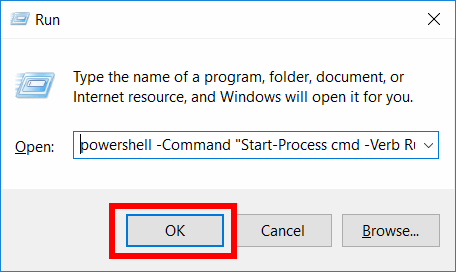
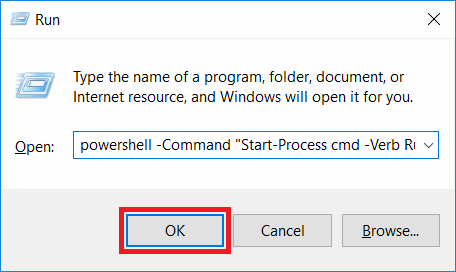
Edited Exercises 1 and 2 in CNTK lab

Changed region(s): [[0.2149, 0.7353, 0.5219, 0.9706]]

diff --git a/Workshop/16. Cognitive Toolkit/Microsoft Cognitive Toolkit HOL.md b/Workshop/16. Cognitive Toolkit/Microsoft Cognitive Toolkit HOL.md
@@ -6,21 +6,21 @@
 <a name="Overview"></a>
 ## Overview ##
 
-The [Microsoft Cognitive Toolkit](https://www.microsoft.com/en-us/research/product/cognitive-toolkit/), formerly known as the Cognitive Network Toolkit (CNTK), is a powerful set of free and open-source tools for developing deep-learning applications. It was initially developed by computer scientists at Microsoft to aid in their own research, and was later adopted by Bing and other product groups as well as by Microsoft customers. It can run on a single machine with a single CPU, or scale efficiently across multiple machines with multiple CPUs and NVIDIA GPUs, including Azure's [GPU offering](https://azure.microsoft.com/en-us/blog/azure-n-series-preview-availability/). The Microsoft Cognitive Toolkit supports C++ and Python and includes a number of libraries and utilities for speech, image, language, and video recognition and many examples of how to use them. For more information on its history, its uses, and its capabilities, see https://blogs.microsoft.com/next/2016/10/25/microsoft-releases-beta-microsoft-cognitive-toolkit-deep-learning-advances.
+The [Microsoft Cognitive Toolkit](https://www.microsoft.com/en-us/research/product/cognitive-toolkit/), also known as the Computational Network Toolkit (CNTK), is a powerful set of free and open-source tools for developing deep-learning applications. It was initially developed by computer scientists at Microsoft to aid in their own research, and was later adopted by Bing and other product groups as well as by Microsoft customers. It can run on a single machine with a single CPU, or scale efficiently across multiple machines with multiple CPUs and NVIDIA GPUs, including Azure's [GPU offering](https://azure.microsoft.com/en-us/blog/azure-n-series-preview-availability/). The Microsoft Cognitive Toolkit supports C++ and Python and includes a number of libraries and utilities for speech, image, language, and video recognition and many examples of how to use them. For more information on its history, its uses, and its capabilities, see https://blogs.microsoft.com/next/2016/10/25/microsoft-releases-beta-microsoft-cognitive-toolkit-deep-learning-advances.
 
-The toolkit centers around machine learning with [neural networks](https://en.wikipedia.org/wiki/Artificial_neural_network). Machine learning enables computers to discern patterns in data that are difficult to identify algorithmically. Imagine trying to write an algorithm to identify images containing cats. The algorithm might scan the image looking for features characteristic of cats such as pointed ears, whiskers, and slit pupils, but identifying those features by examining individual pixels would be difficult. By contrast, a machine-learning model trained with thousands of cat images could "learn" to identify cats from patterns in the data without explicitly understanding what those patterns represent. Machine learning touches lives every day and is widely used in industry to flag fraudulent credit-card transactions, generate online shopping recommendations, perform optical character recognition, and more.
+The toolkit centers around machine learning with [neural networks](https://en.wikipedia.org/wiki/Artificial_neural_network). Machine learning enables computers to discern patterns in data that are difficult to identify algorithmically. Imagine trying to write an algorithm to identify images containing cats. The algorithm might scan the image looking for features characteristic of cats such as pointed ears, whiskers, and slit pupils, but identifying those features by examining individual pixels would be difficult. By contrast, a machine-learning model trained with thousands of cat images could "learn" to identify cats from patterns in the data without explicitly understanding what those patterns represent. Machine learning touches lives every day and is widely used in industry to flag fraudulent credit-card transactions, generate online shopping recommendations, and more.
 
 ![Features of Cats](Images/cats.jpg)
 
 _Features of cats (image: Wikimedia Commons)_
 
-When used for image processing, neural networks begin by decomposing an input image into regions as illustrated in the images above. These regions constitute a series of *input nodes* in a neural network. These nodes are connected to many *hidden nodes* via probabilistic edges. Each input region is assigned a value, which is mathematically generated from the probability of an edge combined with input from other nodes. Signals from these nodes feed into other nodes and traverse the network until they reach an *output node*. If the destination output node meets a specified probability threshold, then the image is identified as one matching the input criteria. 
+When used for image processing, neural networks begin by decomposing an input image into regions as illustrated above. These regions constitute a series of *input nodes* in a neural network. These nodes are connected to many *hidden nodes* via probabilistic edges. Each input region is assigned a value, which is mathematically generated from the probability of an edge combined with input from other nodes. Signals from these nodes feed into other nodes and traverse the network until they reach an *output node*. If the destination output node meets a specified probability threshold, then the image is identified as one matching the input criteria. 
 
 ![Neural Network](Images/neural-network.png)
 
 _Neural network (image: Wikimedia Commons)_
 
-Neural networks are trained with one set of inputs and then tested with another set of inputs. Handwriting recognition is one of the common applications for neural networks. Handwriting is usually unique to an individual, but there are common characteristics of written characters that can be detected in images.
+Neural networks are trained with one set of inputs and then tested with another set of inputs. Handwriting recognition is one of the common applications, especially neural networks mimc the behavior of the human brain. Handwriting is usually unique to an individual, but there are common characteristics of written characters that can be detected in images.
 
 The [MNIST datasbase](https://en.wikipedia.org/wiki/MNIST_database) is a popular dataset for training and evaluating handwriting-recognition models. The database contains 60,000 images of the digits 0 through 9 drawn by high school students. It also includes a set of 10,000 test images. A number of scholarly papers have been published using this dataset, each seeking to optimize neural networks to produce more positives and fewer errors when identifying characters. Models built around the MNIST database frequently divide each image into regions and feed them into a neural network for processing. For a more in-depth explanation of machine learning, particularly as it relates to MNIST, check out http://neuralnetworksanddeeplearning.com/chap1.html.
 
@@ -31,9 +31,9 @@ In this lab, you will use the MNIST database to train and test a variety of diff
 
 In this hands-on lab, you will learn how to:
 
-* Install the Microsoft Cognitive Toolkit
-* Download and use the MNIST Dataset to train and test neural networks
-* Edit the configuration files to use different inputs for testing.
+- Install the Microsoft Cognitive Toolkit
+- Use the MNIST dataset to train and test neural networks
+- Edit the configuration files to use different inputs for testing
 
 <a name="Prerequisites"></a>
 ### Prerequisites ###
@@ -61,156 +61,112 @@ Estimated time to complete this lab: **45** minutes.
 <a id="Exercise1"/></a>
 ## Exercise 1: Install the Cognitive Toolkit (Windows)
 
-Installing the toolkit it pretty straight forward if you use the pre-compiled binaries. It is possible to compile it from the source, but this is only necessary if you want to extend the code rather than simply use it. CNTK also comes with install scripts for Windows and Linux. This exercise will use the Windows scripts to setup CNTK on a Windows machine.
+Installing the Microsoft Cognitive Toolkit is reasonably straightforward if you use the precompiled binaries available on GitHub. The toolkit comes with install scripts for Windows and Linux. In this exercise, you will use the Windows scripts to install the toolkit on a Windows machine. If you are running Linux, skip this exercise and go to [Exercise 2](#Exercise).
 
+1. Visit the [CNTK release site on GitHub](https://github.com/Microsoft/CNTK/releases) and download the latest CPU-only version of the toolkit from the "Windows" section of the page. If you are prompted to accept any license agreements, answer yes.
 
-1. Visit the [CNTK release site on GitHub](https://github.com/Microsoft/CNTK/releases) to download the latest binary distribution of CNTK. Select the **CNTK for Windows v.2.x CPU only** distribution.
+	![Downloading CNTK for Windows](Images/windows-download.png)
 
-	![Windows Download](Images/windows-download.png)
+	_Downloading CNTK for Windows_
 
-	_Windows Download_
+1. Open the downloaded zip file and copy the folder named "cntk" to your desktop or to the location of you choice.
 
-1. On the next screen, select **I Accept** to agree to the license and start the download.
+1. Press **Windows + R**, and then execute the following command to launch a Command Prompt window in administrator mode.
 
-	![Windows Download](Images/windows-download-1.png)
-
-	_Windows Download_
-
-1. Extract the contents of the zip file. The root of the zip file contains a folder called **cntk**. For ease of use, copy this folder to your **Desktop**.
-
-1. Launch a Command Prompt. Press **Windows + R**, then type in or copy and paste the following command, then, then click **OK**. This command will start the Command Prompt in administrator mode.
-
-	````
+	```
 	powershell -Command "Start-Process cmd -Verb RunAs"
-	````
+	```
 
-	![Run Window](Images/command-prompt.png)
+	![Launching a Command Prompt as administrator](Images/command-prompt.png)
 
-	_Run Window_
+	_Launching a Command Prompt as administrator_
 
-1. Change folder to the **cntk** folder with the **cd** command. This opens the root folder for **cntk**, which contains a other folders with CNTK utilities and Binaries.
+1. In the Command Prompt window, use a **cd** command to change to the "cntk" directory that you copied from the zip file. Then execute the following command:
 
-	````
-	cd %USERPROFILE%\Desktop\cntk
-	````
-
-1. Change to the install folder in **scripts** folder for Windows. This folder contains a  PowerShell scripts that install the CNTK dependencies.
-
-	````
+	```
 	cd Scripts\install\windows
-	````
+	```
 
-1. Install CNTK dependencies with the **install.ps1** script. 
+1. Use the following command to run a PowerShell script to install CNTK dependencies: 
 
-	````
+	```
 	powershell -ExecutionPolicy UnRestricted -File install.ps1 -Execute
-	````
+	```
 
-1. If you see a **Security warning**, select **R** to allow the script to run. You may see this warning for multiple scripts. Select **R** for each script to **Run once**.
+1. Each time you are prompted with a security warning, press **R** followed by **Enter** to answer "Run once."
 
-	![Security Warning](Images/security-warning.png)
+	![Allowing the script to run](Images/security-warning.png)
 
-	_Security Warning_
+	_Allowing the script to run_
 
-1. Once the script starts to execute, the screen will prompt to agree with the install scripts changes. Type in **1** to select the **I agree and want to continue**
+1. When prompted to continue, press **1** followed by **Enter** to answer "I agree and want to continue."
 
-	![CNTK Prerequisites](Images/i-agree.png)
+	![Proceeding with the installation process](Images/i-agree.png)
 
-	_CNTK Prerequisites_
+	_Proceeding with the installation process_
 
+1. Once the script determines what needs to be installed and prompts you for confirmation to continue, press **Y** followed by **Enter** to answer "yes."
 
-1. The script will then determine what needs to be installed. Once the determination is complete, it will list what will be done by the script. Type in **Y** to answer **Do you want to continue?**
+1. The script will download a number of libraries and install them on your computer. This will take a few minutes to complete. Once the script is finished, you will be shown the path to a BAT file that activates the CNTK Python environment. Copy this command to the clipboard.
 
-	![Do you want to continue?](Images/do-you-want-continue.png)
+	![Copying the path to the BAT file](Images/install-finished.png)
 
-	_Do you want to continue?_
+	_Copying the path to the BAT file_
 
-1. The script will download a number of libraries and install them on the computer. This will take a few minutes to complete. Once the script is finishes, the script will notify the user with a message about examples and tutorials along with a path to a script that will activate the **CNTK Python** environment. Copy and paste this path into the Command Prompt window.
+1. Paste the command on the clipboard into the Command Prompt window and execute it.
 
-	![Install finished](Images/install-finished.png)
+The prompt will change to one for the CNTK Python environment. CNTK is now installed and ready to use. Each time you use the toolkit, this command will need to be run to launch the CNTK Python environment. Copy the command to a text file so you can easily retrieve it later.
 
-	_Install finished_
-
-	**Example:**
-
-	````
-	C:\Users\username\Desktop\cntk\scripts\cntkpy35.bat
-	````
-
-1. The prompt will change to indicate that the Command Prompt is in the CNTK Python environment. CNTK is activated and ready to use. Each time you use the toolkit, the command will need to be run first to setup the CNTK Python environment.
-
-	![New Prompt](Images/new-prompt.png)
-
-	_New Prompt_
+Now skip to [Exercise 3](#Exercise3). Exercise 2 is for Linux users only.
 
 <a id="Exercise2"/></a>
 ## Exercise 2: Install the Cognitive Toolkit (Linux)
 
-Like the Windows install, this exercise will use scripts to install CNTK, this time on a Linux machine.
+Installing the Microsoft Cognitive Toolkit is reasonably straightforward if you use the precompiled binaries available on GitHub. The toolkit comes with install scripts for Windows and Linux. In this exercise, you will use the Linux scripts to install the toolkit on a Linux machine.
 
-1. Visit the [CNTK release site on GitHub](https://github.com/Microsoft/CNTK/releases) to download the latest binary distribution of CNTK. Select the **CNTK for Linux v.2.x CPU only** distribution.
+1. Visit the [CNTK release site on GitHub](https://github.com/Microsoft/CNTK/releases) and download the latest CPU-only version of the toolkit from the "Linux" section of the page. If you are prompted to accept any license agreements, answer yes.
 
-	![Windows Download](Images/linux-download.png)
+	![Downloading CNTK for Linux](Images/linux-download.png)
 
-	Linux Download_
+	_Downloading CNTK for Linux_
 
-1. On the next screen, select **I Accept** to agree to the license and start the download.
+1. After the download completes, open a Terminal window. This can usually be found on the Applications menu for your distro, or can often be launched by pressing **Ctrl+Alt+F1**.
 
-	![Windows Download](Images/windows-download-1.png)
+1. In the Terminal window, change to the "Downloads" directory:
 
-	_Linux Download_
-
-1. After the download completes, open a Terminal window. This can usually be found on the Applications menu for your Distro or can usually be accessed with Ctrl + Alt + F1.
-
-1. In the Terminal, change directories to the Downloads directory.
-
-	````
+	```
 	cd ~/Downloads
-	````
+	```
 
-1. Uncompress the **CNTK-2-X-Linux-64bit-CPU-Only.tar.gz** file. For shorthand, most distros allow **tar -xvzf C** then press the **Tab** key to find the file.
+1. Use the following command to uncompress the **CNTK-2-X-Linux-64bit-CPU-Only.tar.gz** file:
 
-	````
+	```
 	 tar -xvzf CNTK-2-x-Linux-64bit-CPU-Only.tar.gz
-	````
+	```
 
-1. Change directories to the Linux install folder.
+1. Use the following command to switch to the Linux install folder:
 
-	````
+	```
 	cd cntk/Scripts/install/linux/
-	````
+	```
 
-1. Launch the install script.
+1. Use the following command to launch the install script. If prompted for a sudo password, type it in and press *Enter**.
 
-	````
+	```
 	 ./install-cntk.sh
-	````
+	```
 
-1. The install script may ask for a **sudo** password. The user install the script needs root privileges in order to install the CNTK prerequisites.
+1. The script will download a number of libraries and install them on your computer. This will take a few minutes to complete. Once the script is finished, you will be shown a command that activates the CNTK Python environment. Copy this command to the clipboard.
 
-	![sudo Password](Images/sudo-password.png)
+1. The script will download a number of libraries and install them on your computer. This will take a few minutes to complete. Once the script is finishes, the script will notify the user with a message about examples and tutorials along with a **source** command that will activate the **CNTK environment**. Copy and paste or type command into the Terminal window.
 
-	_sudo Password_
+	![Copying the command to activate the environment](Images/source-command.png)
 
-1. The script will download a number of libraries and install them on the computer. This will take a few minutes to complete. Once the script is finishes, the script will notify the user with a message about examples and tutorials along with a **source** command that will activate the **CNTK environment**. Copy and paste or type command into the Terminal window.
+	_Copying the command to activate the environment_
 
-	![source Command](Images/source-command.png)
+1. Paste the command on the clipboard into the Terminal window and execute it.
 
-	_source Command_
-
-	**Example:**
-	
-	````
-	source "/home/username/Downloads/cntk/activate-cntk"
-	````
-
-1. Once the command runs, CNTK is activated and ready to use. Each time you use the toolkit, the source command will need to be run first to setup the CNTK environment.
-
-
-	![CNTK is Activated](Images/cntk-activated.png)
-
-	_CNTK is Activated_
-
+The prompt will change to one for the CNTK Python environment. CNTK is now installed and ready to use. Each time you use the toolkit, this command will need to be run to launch the CNTK Python environment. Copy the command to a text file so you can easily retrieve it later.
 
 <a id="Exercise3"/></a>
 ## Exercise 3: Install training and testing data
